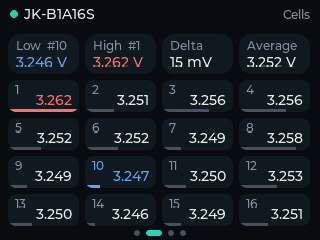
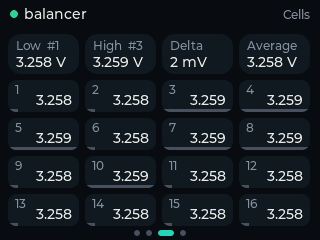
README: retake screenshots on the JK_B2A16S, add Settings and editor

diff --git a/README.md b/README.md
@@ -15,10 +15,12 @@ Originally based on [peff74/Arduino-jk-bms](https://github.com/peff74/Arduino-jk
 | ![Overview](doc/screenshots/overview.png) | ![Device](doc/screenshots/device.png) |
 | **Cells** | **Wire resistance** |
 | ![Cells](doc/screenshots/cells.png) | ![Wire resistance](doc/screenshots/resistance.png) |
+| **Settings** | **Editing a setting** |
+| ![Settings](doc/screenshots/settings.png) | ![Editing a setting](doc/screenshots/editor.png) |
 | **Device picker** | |
 | ![Device picker](doc/screenshots/picker.png) | |
 
-*A JK-B1A16S balancer, 16 cells. Captured with the `shot` console command.*
+*A JK_B2A16S balancer, 16 cells. Captured with the `shot` console command.*
 
 ## Features
 
